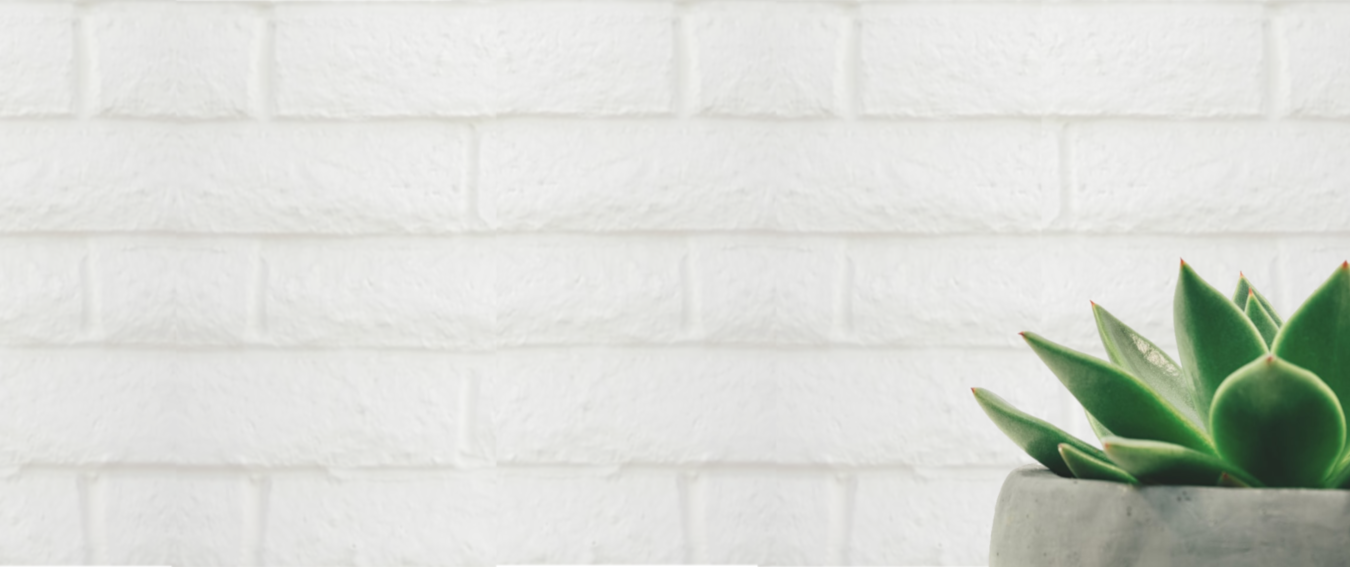
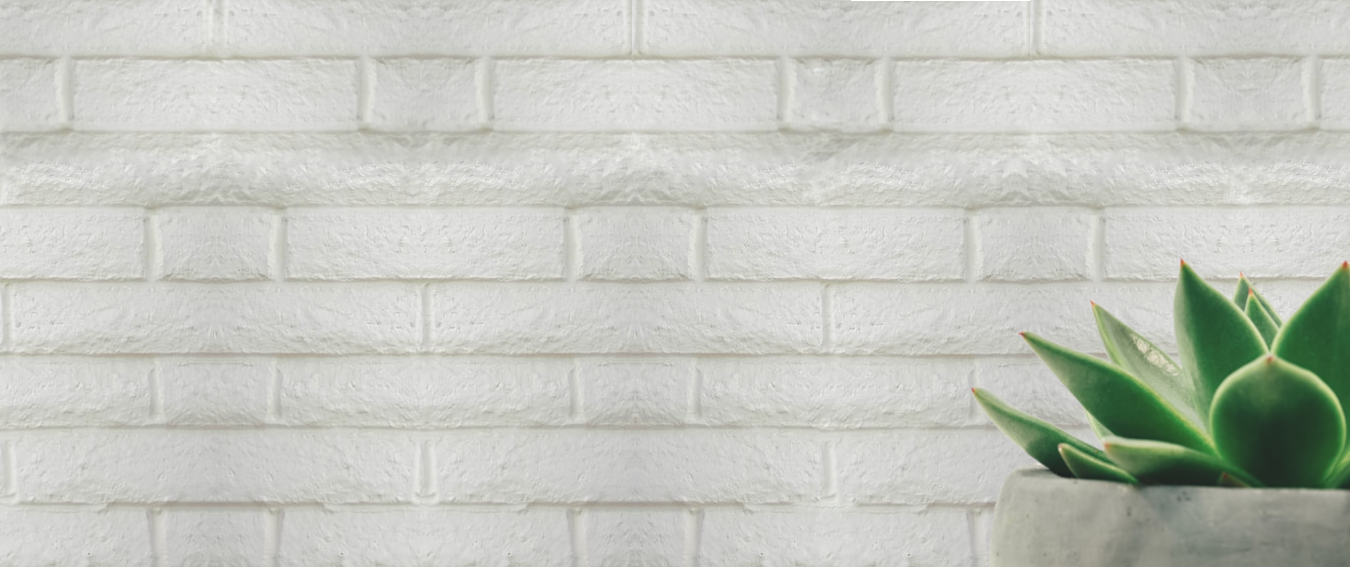
Removed cols from services, updated paral intro mix-blend

diff --git a/index.html b/index.html
@@ -49,7 +49,7 @@
 <!-- First Parallax Section -->
     <div class="jumbotron paral paral-food">
         <h1 class="display-3">Salud y felicidad a tu alcance </h1>
-        <p class="lead">Experimenta las posibilidades de medicina holística</p>
+        <p class="lead blend">Experimenta las posibilidades de medicina holística</p>
     </div>
 
 <!-- Acerca de mi -->
@@ -97,20 +97,22 @@
         <div class="row">
             <h2 id="servicios" class="maroon font-weight-bold pb-3 mx-auto">Servicios</h2>
         </div>
-        <div class="row ">
-            <div class="col-12 col-md-4 pt-2 ">
+        <div class="row d-flex justify-content-around ">
+
+<!--            <div class="col-12 col-md-3 pt-2 ">-->
                 <div class="card shadow p-3 mb-5 bg-white rounded" style="width: 18rem;">
                   <img class="card-img-top" src="static/salad.jpeg" alt="Consulta">
                   <div class="card-body">
                     <h5 class="card-title maroon font-weight-bold">Consultas de Nutrición</h5>
                     <p class="card-text">Lorem ipsum dolor sit amet, consectetur adipisicing elit. Exercitationem, quod!</p>
                     <a href="#" class="leer">Leer más  <i class="fas fa-angle-right"></i></a>
-
                   </div>
                 </div>
-            </div>
+<!--            </div>-->
 
-            <div class="col-12 col-md-4 pt-2 ">
+<!--            <div class="col-md-1"></div>-->
+
+<!--            <div class="col-12 col-md-3 pt-2 ">-->
                 <div class="card shadow p-3 mb-5 bg-white rounded" style="width: 18rem;">
                   <img class="card-img-top" src="./static/taller.jpeg" alt="Talleres">
                   <div class="card-body">
@@ -120,9 +122,31 @@
 
                   </div>
                 </div>
-            </div>
+<!--            </div>-->
 
-            <div class="col-12 col-md-4 pt-2">
+<!--            <div class="col-md-1"></div>-->
+
+<!--            <div class="col-12 col-md-3 pt-2 ">-->
+                <div class="card shadow p-3 mb-5 bg-white rounded" style="width: 18rem;">
+                  <img class="card-img-top" src="./static/taller.jpeg" alt="Talleres">
+                  <div class="card-body">
+                      <h5 class="card-title maroon font-weight-bold">Talleres de Nutrición</h5>
+                      <p class="card-text">Some quick example text to build on the card title and make up the bulk of the card's content.</p>
+                      <a href="#" class="leer">Leer más  <i class="fas fa-angle-right"></i></a>
+
+                  </div>
+                </div>
+<!--            </div>-->
+
+
+
+
+        </div>
+
+        <div class="row d-flex justify-content-around">
+<!--            <div class="col-md-2"></div>-->
+
+<!--            <div class="col-12 col-md-5 pt-2">-->
                 <div class="card shadow p-3 mb-5 bg-white rounded" style="width: 18rem;">
                   <img class="card-img-top" src="./static/cacao.jpeg" alt="Meditaciones">
                   <div class="card-body">
@@ -131,7 +155,24 @@
                     <a href="#" class="leer">Leer más  <i class="fas fa-angle-right"></i></a>
                   </div>
                 </div>
-            </div>
+<!--            </div>-->
+
+<!--            <div class="col-md-2"></div>-->
+
+<!--            <div class="col-12 col-md-5 pt-2">-->
+                <div class="card shadow p-3 mb-5 bg-white rounded" style="width: 18rem;">
+                  <img class="card-img-top" src="./static/cacao.jpeg" alt="Superfoods">
+                  <div class="card-body">
+                    <h5 class="card-title maroon font-weight-bold">Super foods</h5>
+                    <p class="card-text">Lorem ipsum dolor sit amet, consectetur adipisicing elit. Aliquam, ratione.</p>
+                    <a href="#" class="leer">Leer más  <i class="fas fa-angle-right"></i></a>
+                  </div>
+                </div>
+<!--            </div>-->
+
+<!--            <div class="col-md-2"></div>-->
+
+
         </div>
     </div>
 </div>

diff --git a/css/index.css b/css/index.css
@@ -2,7 +2,7 @@
     max-height: 350px;
 }
 
-#conoce, #conoce-mas, #conoce-menos{
+.leer{
     color: #85144b;
     text-decoration: none;
     border-bottom: none;
@@ -91,11 +91,32 @@ nav{
 
 .paral p {
     font-size: 24px;
-    color: #111111;
+    /*color: #111111;*/
     text-align: center;
     line-height: 60px;
-    text-shadow: 1px 1px 0px rgba(0,0,0,0.2);
+    /*text-shadow: 1px 1px 0px rgba(0,0,0,0.2);*/
 }
+
+
+
+
+
+.paral p.blend {
+  mix-blend-mode: difference;
+
+  color: white;
+  /*display: block;*/
+  /*height: 100%;*/
+  /*width: 100%;*/
+  /*display: flex;*/
+  /*flex-direction: column;*/
+  /*justify-content: center;*/
+   filter: drop-shadow(.035em .035em silver)
+}
+
+
+
+
 
 .paral h1 {
     color: #111111;
@@ -110,7 +131,7 @@ nav{
     background-image:url("../static/suculent.png");
     /*background-attachment: fixed;*/
     /*background-position: bottom;*/
-    background-position: center bottom;
+    background-position: center right;
     min-height: 420px;
 }
 
